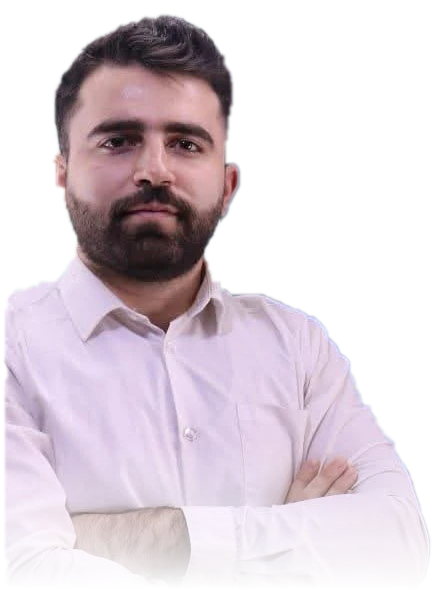
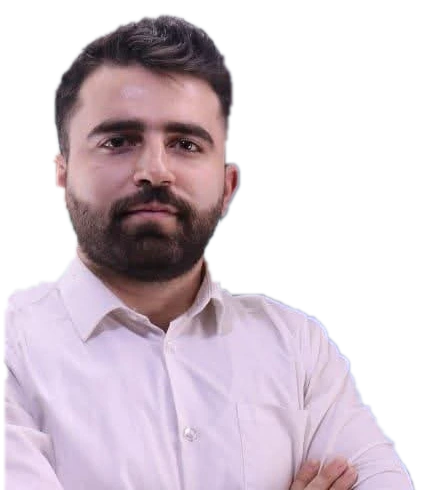
صورة دائرية للأستاذ وإزالة السطر الزائد
Claude-Session: https://claude.ai/code/session_011yjs3DKBT19NAu8sVBiVfi

diff --git a/index.html b/index.html
@@ -37,14 +37,15 @@ video{width:100%;height:100%;display:block;background:#000}
 .btn.on{background:var(--gold);color:#0a1630;border-color:var(--gold);font-weight:700}
 .nav{display:flex;gap:8px;margin:12px 0}.nav a{flex:1;text-align:center}
 .note{background:#0d1d3c;border:1px dashed var(--line);border-radius:12px;padding:10px 14px;color:var(--mut);font-size:15px;margin:10px 0}
-.hero{position:relative;border-radius:20px;overflow:hidden;margin:0 0 18px;border:1px solid var(--gold2);background:radial-gradient(circle at 18% 80%,rgba(246,215,122,.28),transparent 45%),linear-gradient(135deg,#0b2447,#19376d 65%,#27498a);display:flex;align-items:stretch;justify-content:space-between;gap:6px;min-height:230px;box-shadow:0 10px 30px rgba(0,0,0,.35)}
+.hero{position:relative;border-radius:20px;overflow:hidden;margin:0 0 18px;border:1px solid var(--gold2);background:radial-gradient(circle at 18% 80%,rgba(246,215,122,.28),transparent 45%),linear-gradient(135deg,#0b2447,#19376d 65%,#27498a);display:flex;align-items:stretch;justify-content:space-between;gap:6px;min-height:0;box-shadow:0 10px 30px rgba(0,0,0,.35)}
 .hero .tx{flex:1;min-width:0;padding:22px 18px;display:flex;flex-direction:column;justify-content:center;gap:6px}
 .hero .tx small{color:#cfe3ff;font-size:14px;letter-spacing:.3px}
 .hero h1{margin:0;color:var(--gold);font-size:32px;line-height:1.25}
 .hero .tx p{margin:0;color:#dbe8ff;font-size:15px}
 .hero .tag{display:inline-block;align-self:flex-start;margin-top:8px;border:1px solid var(--gold2);color:var(--gold);border-radius:20px;padding:2px 12px;font-size:13px}
-.hero .ph{flex:none;width:min(42%,230px);align-self:flex-end;display:block}
-.hero .ph img{display:block;width:100%;height:auto;filter:drop-shadow(0 4px 14px rgba(0,0,0,.45))}
+.hero .ph{flex:none;align-self:center;margin:18px 16px 18px 0;width:min(40%,170px);aspect-ratio:1;border-radius:50%;padding:4px;background:linear-gradient(145deg,var(--gold),var(--gold2) 50%,#8a6a1f);box-shadow:0 8px 24px rgba(0,0,0,.45)}
+.hero .ph div{width:100%;height:100%;border-radius:50%;position:relative;overflow:hidden;background:radial-gradient(circle at 50% 30%,#3a67b5,#10244a)}
+.hero .ph img{position:absolute;width:175%;max-width:none;left:-8%;top:-13%;height:auto}
 @media(max-width:380px){.hero h1{font-size:27px}}
 .sec{background:var(--card);border:1px solid var(--line);border-top:4px solid var(--gold2);border-radius:14px;padding:16px}
 .sec b{display:block;font-family:'Reem Kufi',Cairo;font-size:22px;color:var(--gold)}
@@ -76,7 +77,7 @@ function item(b,v,cur){return '<a class="vi'+(v.id===cur?' on':'')+'" href="#'+b
 const ICON={f3:['١','#4aa3ff'],s3:['٢','#f6d77a'],b2:['٪','#5fd6a3']};
 function home(){
  document.title='الرائد في الرياضيات';
- let s='<div class="hero"><div class="tx"><small>الأستاذ</small><h1>أنس القواسمة</h1><p>الرائد في الرياضيات</p><span class="tag">شرح بالفيديو • اختبارات</span></div><div class="ph"><img src="assets/anas.webp" alt="الأستاذ أنس القواسمة"></div></div>'
+ let s='<div class="hero"><div class="tx"><small>الأستاذ</small><h1>أنس القواسمة</h1><p>الرائد في الرياضيات</p></div><div class="ph"><div><img src="assets/anas.webp" alt="الأستاذ أنس القواسمة"></div></div></div>'
  +'<h2 class="gh">🎬 فيديوهات شرح الدوسيات</h2><p class="sub">اختر صفّك، أو صوّر الباركود الموجود بجانب أي سؤال في الدوسية ليفتح لك شرحه مباشرة.</p><div class="books">';
  DATA.forEach(b=>{s+='<a class="sec" href="#'+b.key+'"><b>'+esc(b.title)+'</b><span>'+esc(b.unit)+'</span><div class="acts one"><span class="a1">🎬 '+AR(b.videos.length)+' فيديو</span></div></a>'});
  s+='</div><h2 class="gh">📝 الاختبارات</h2><p class="sub">اختبارات كل صف في قسم خاص فيه.</p><div class="books">';
